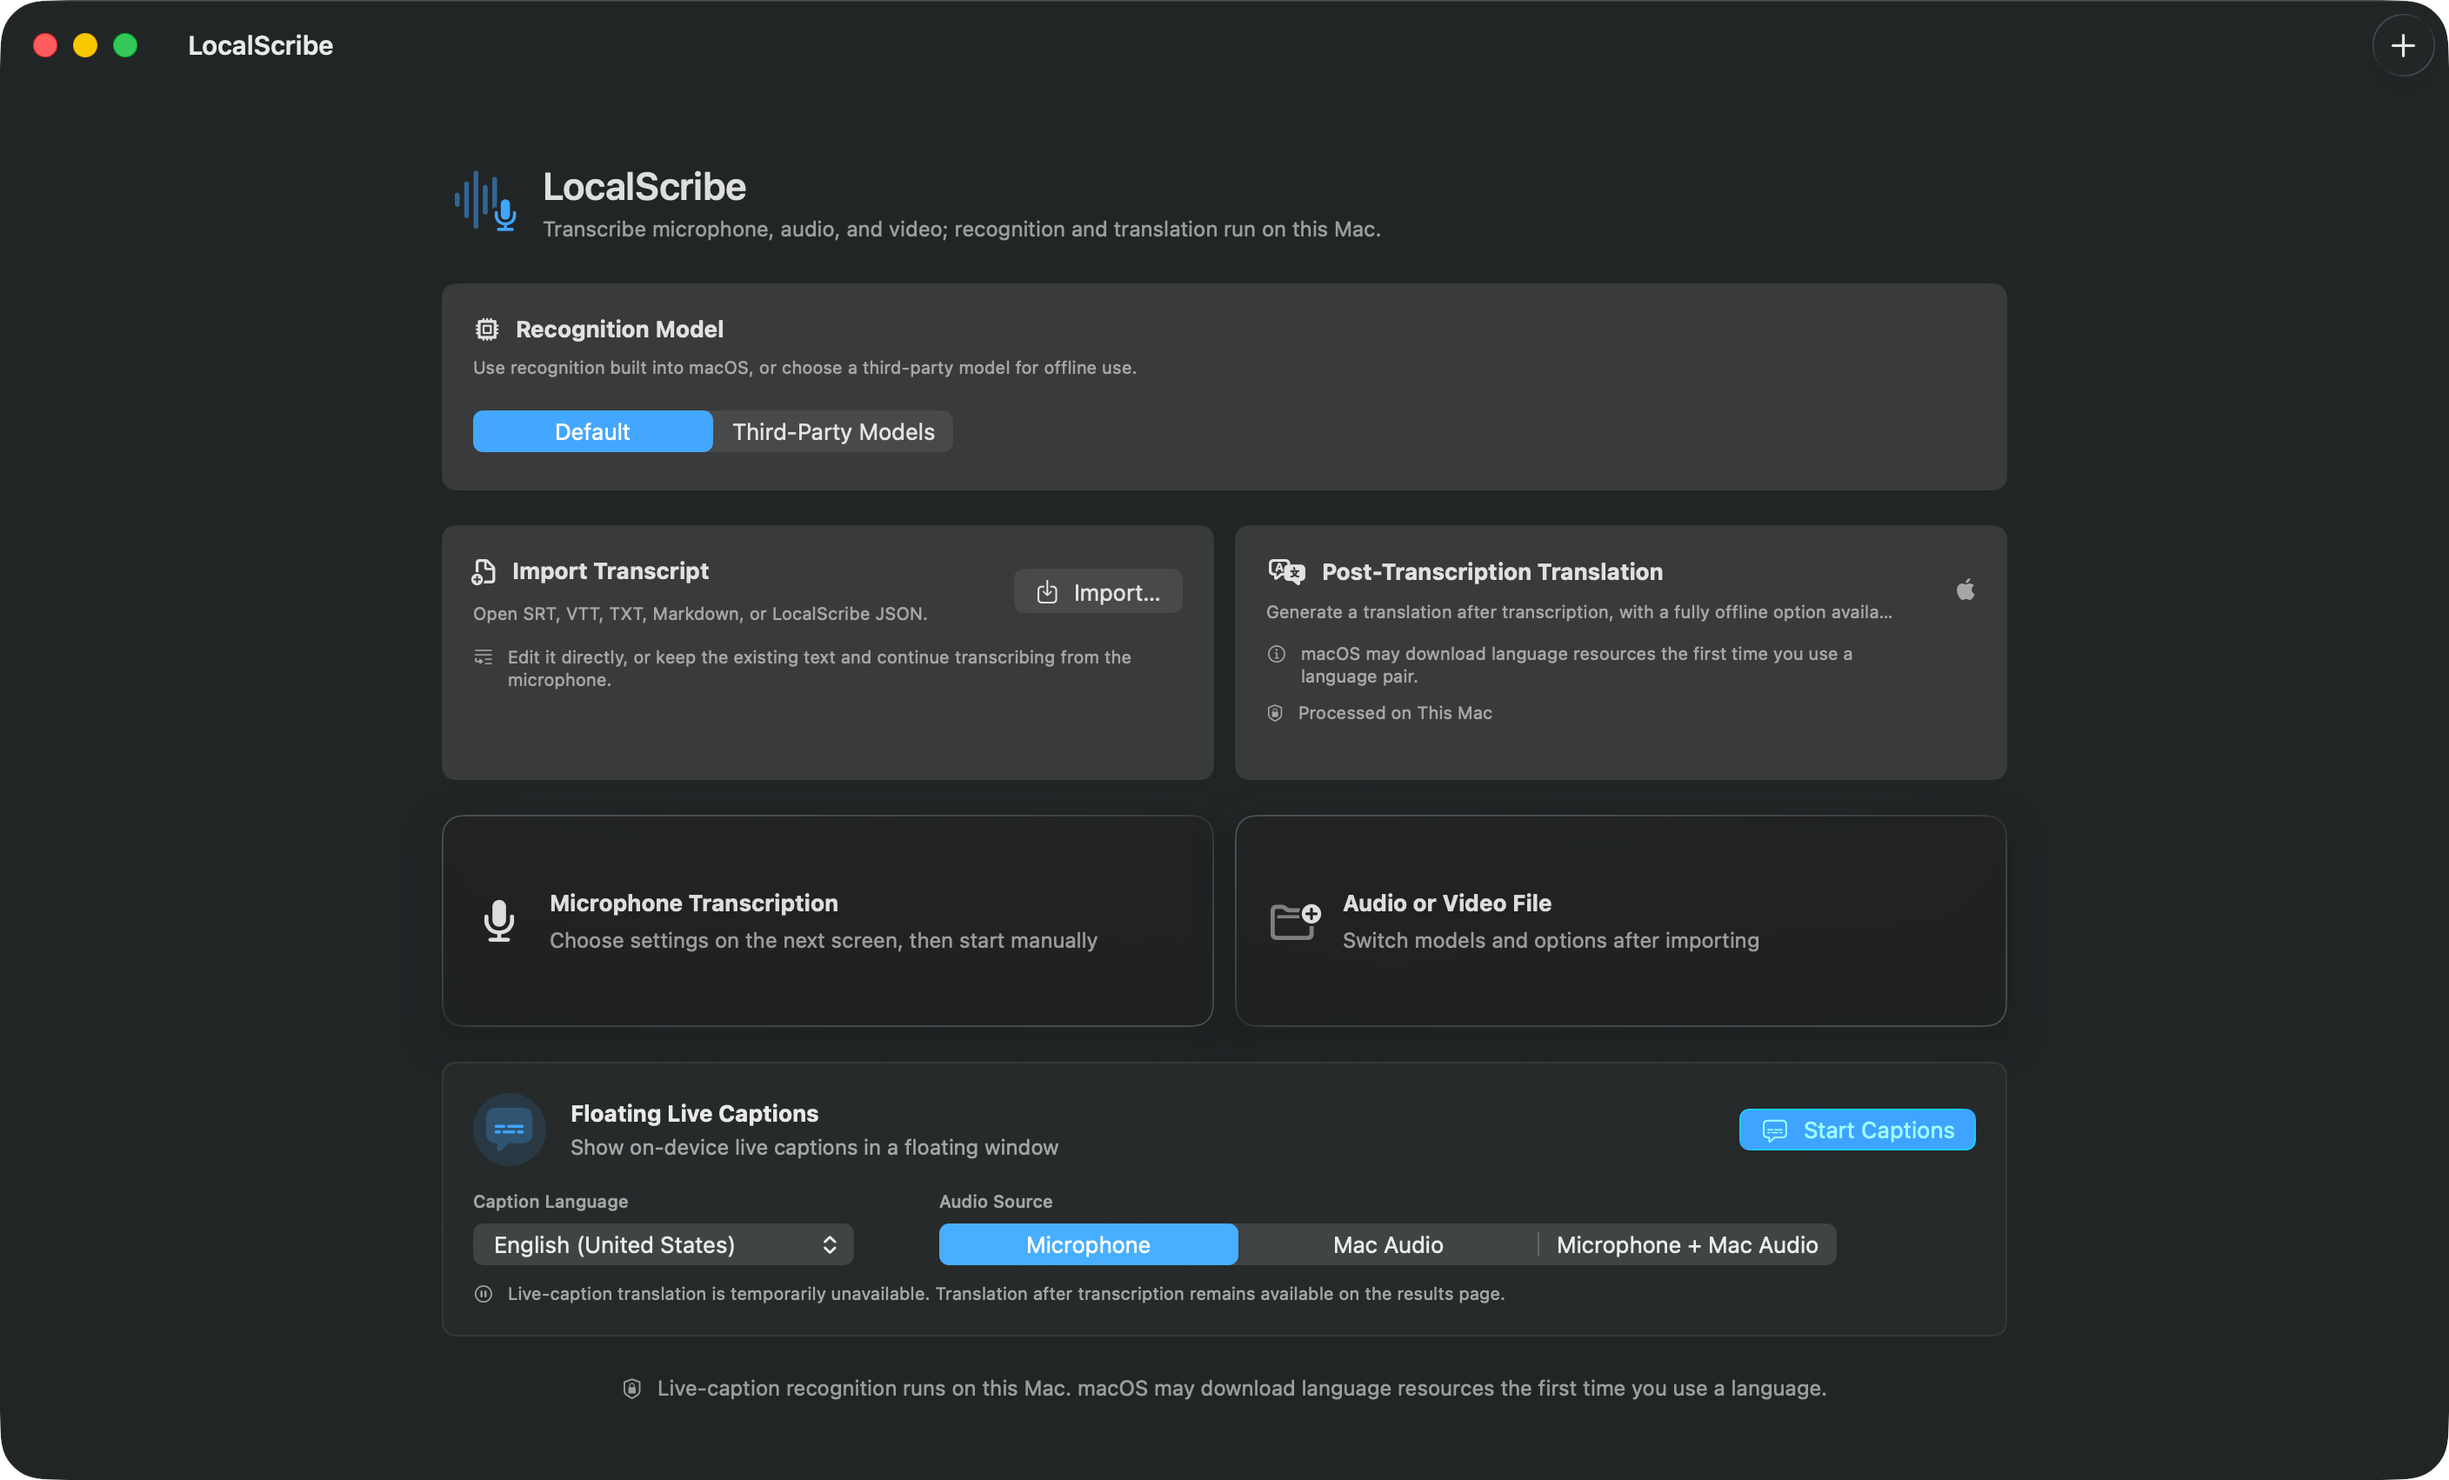
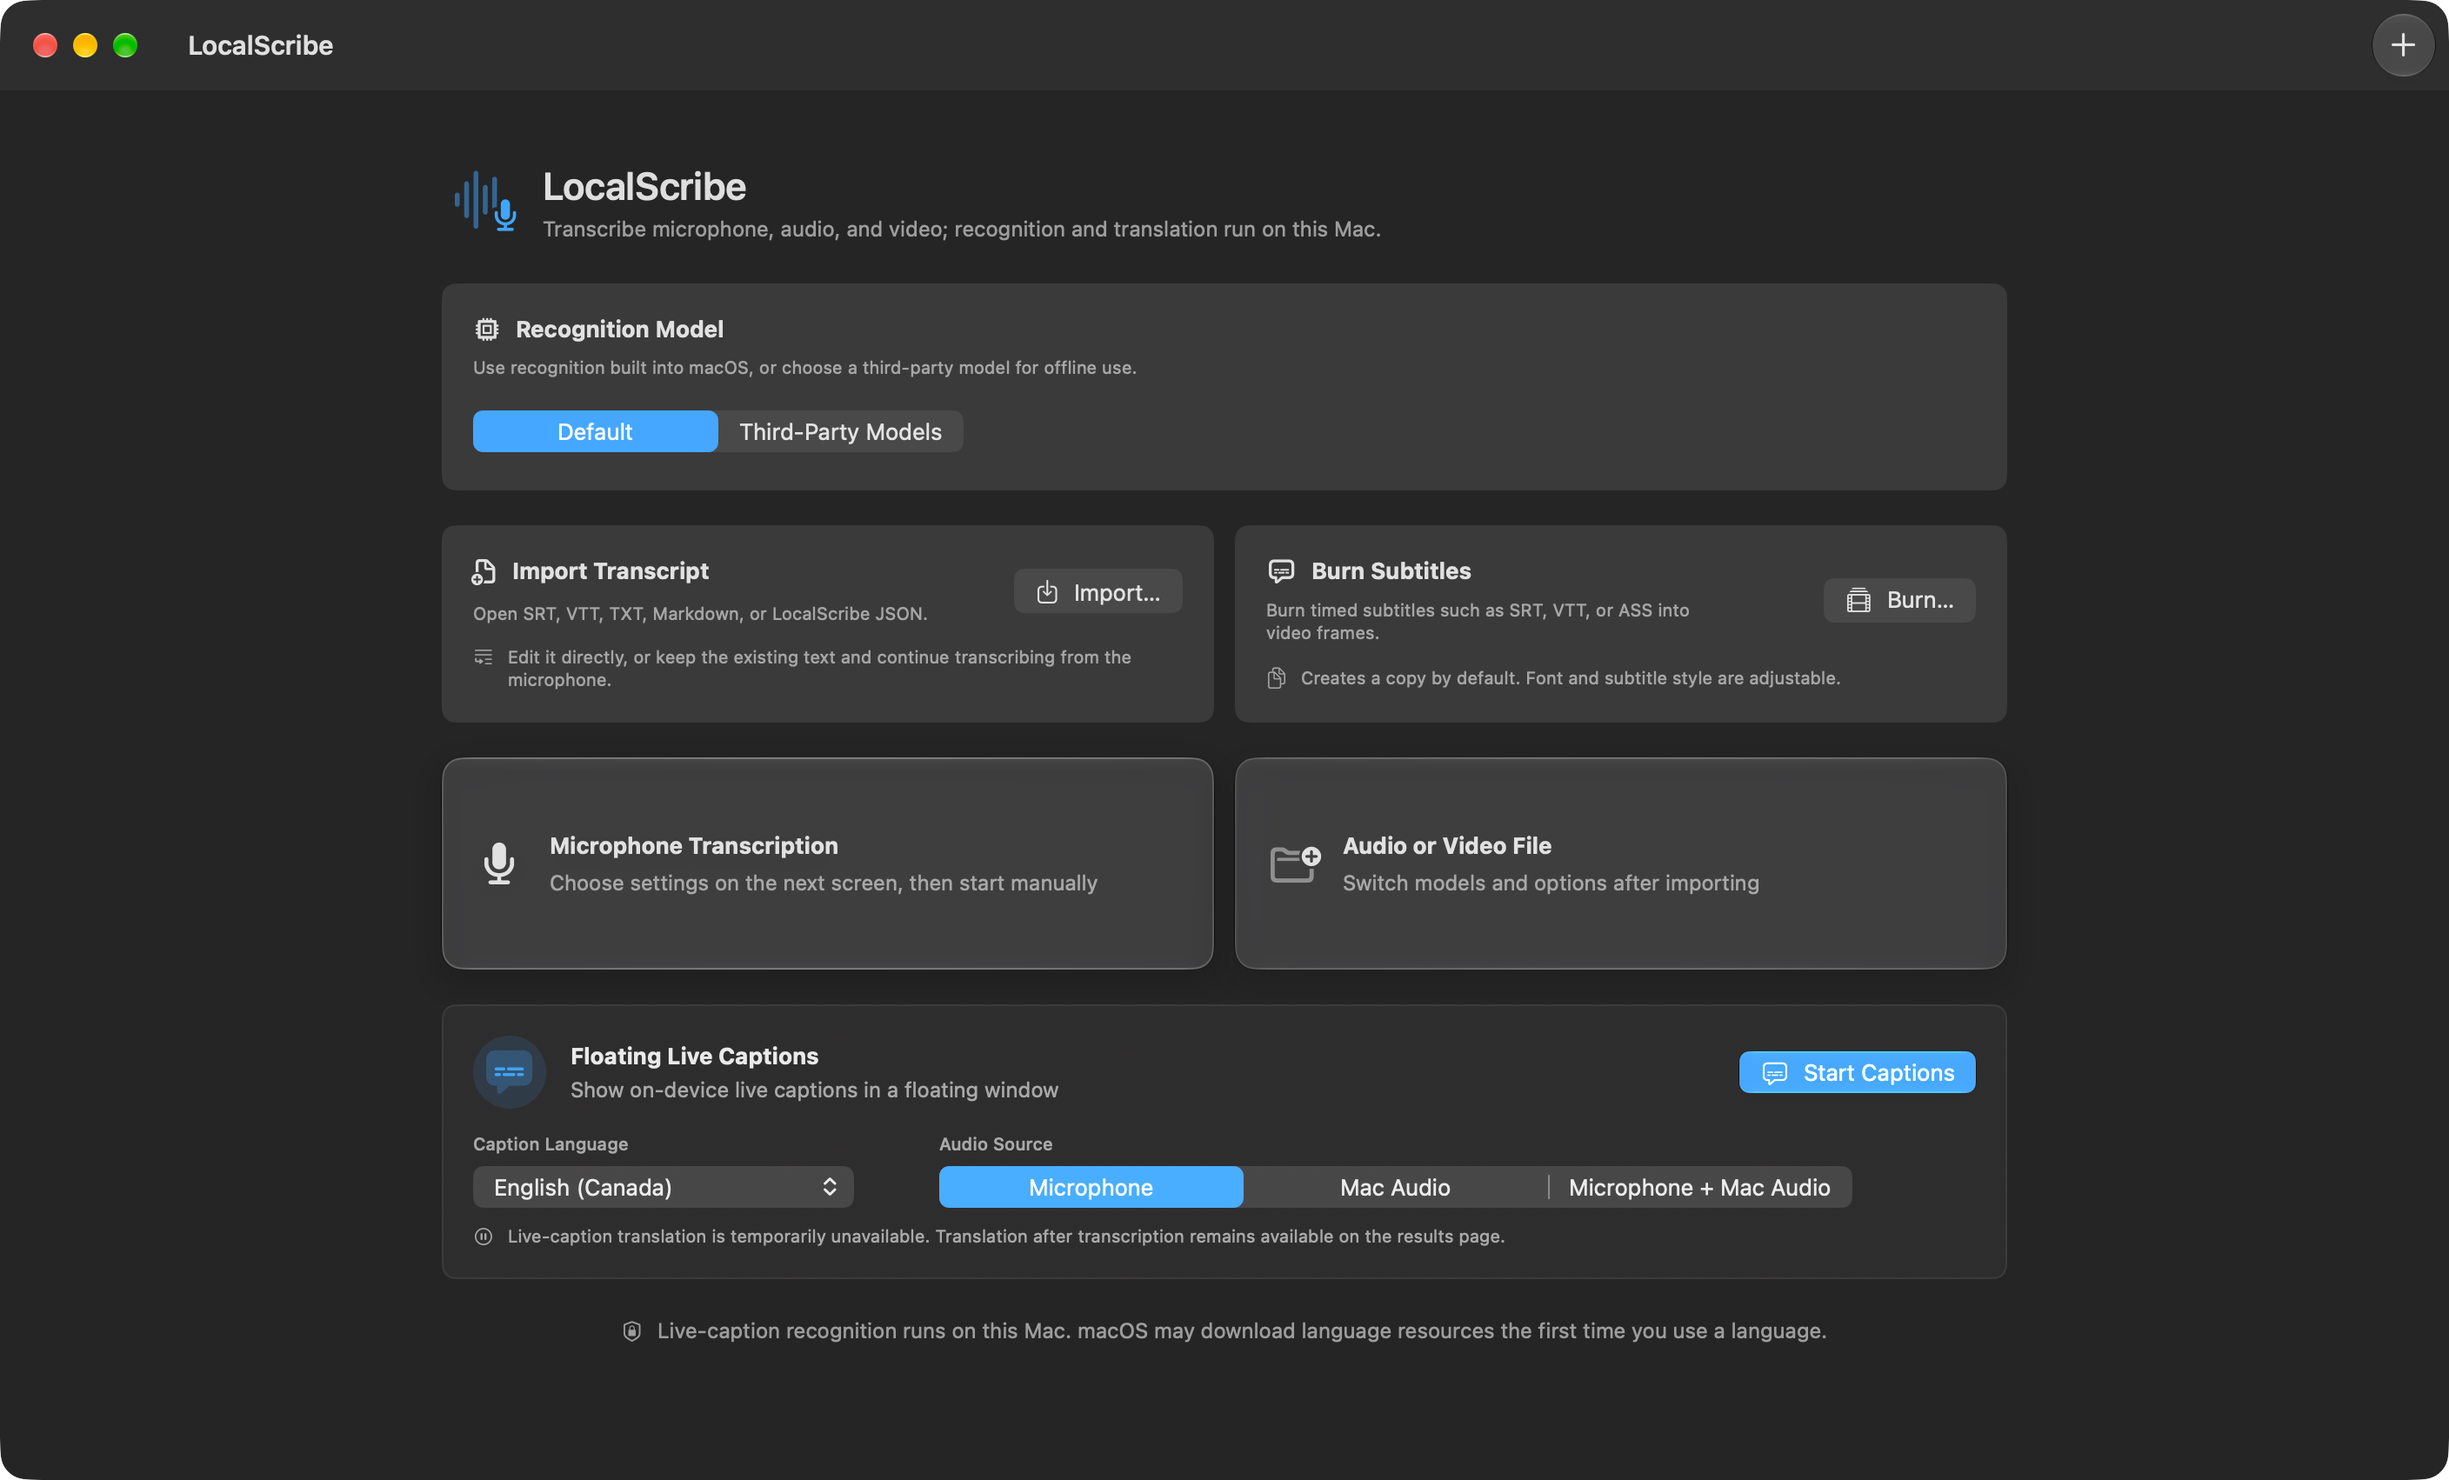
Sync documentation with LocalScribe 1.8.0
- Add a subtitle burning section to the Japanese README and a feature
  entry to the Chinese README.
- Record 1.8.0 subtitle burning acceptance in English and Chinese.
- Retake the light and dark home screenshots in all three languages to
  show the Burn Subtitles card, and update their alt text.
- Remove the outdated version from the installation guide titles.

diff --git a/ACCEPTANCE.md b/ACCEPTANCE.md
@@ -2,6 +2,14 @@
 
 This document summarizes the public acceptance and regression history in English. The complete earlier record is preserved in [Chinese (Simplified)](ACCEPTANCE.zh-CN.md).
 
+## 1.8.0 (43): subtitle burning
+
+- The home screen's Burn Subtitles card, File → Burn Subtitles… (⇧⌘B), and the result page's Burn into Video button open the same burn page; the result-page entry locks the source video and the currently shown original or translation, and Back to Preview returns to the result.
+- SRT, WebVTT, LocalScribe JSON, ASS/SSA, SBV, and TTML/DFXP are detected from file contents. Files without timestamps, with malformed or reversed timestamps, or in other formats are rejected with a line number where possible; cues beyond the video or overlapping cues produce warnings.
+- Create Copy is the default. Burn into Original requires confirmation and replaces the source only after the rendered file is verified. Font, size, position, margin, background, and shadow (on/off, color, width) are remembered and can be reset.
+- The `burn` CLI command supports the same output modes and per-run style overrides, including `--shadow on|off`.
+- Automated coverage includes parsing 20,000 cues in each of four formats, active-cue lookup across three hours at 30 fps, a bounded rendering cache, and a 240-second video with more than 1,200 cues. A 30-minute 1080p30 render with 12,001 cues completed with correct frames and timing and a peak memory of about 167 MB.
+
 ## 1.6.0 (23): adaptive interface, accessibility, and app settings
 
 - Primary actions use native Liquid Glass on macOS 26 with a system-material fallback on macOS 15.5–25; secondary controls no longer receive a custom blue hover treatment.

diff --git a/ACCEPTANCE.zh-CN.md b/ACCEPTANCE.zh-CN.md
@@ -1,5 +1,13 @@
 # 声迹验收记录
 
+## 1.8.0（43）字幕烧录
+
+- 首页“烧录字幕”卡片、“文件 → 烧录字幕…”（⇧⌘B）和结果页“烧录到视频”按钮打开同一个烧录页；从结果页进入时锁定源视频和当前显示的原文或译文，“回退到预览页面”可返回结果页。
+- 按文件内容识别 SRT、WebVTT、声迹 JSON、ASS/SSA、SBV、TTML/DFXP。没有时间戳、时间戳格式错误或前后颠倒、以及其他格式的文件会被拒绝，并尽量给出行号；超出视频时长或相互重叠的字幕只给出警告。
+- 默认创建副本；直接烧录到原视频需要二次确认，且新文件渲染并校验成功后才替换原文件。字体、字号、位置、边距、背景和阴影（开关、颜色、宽度）会被记住，并可恢复默认。
+- 命令行 `burn` 支持相同的输出方式和单次样式覆盖，包括 `--shadow on|off`。
+- 自动化测试覆盖四种格式各 2 万条字幕的解析、30 fps 下 3 小时内的当前字幕查找、有上限的渲染缓存，以及 240 秒、1200 多条字幕的视频。30 分钟 1080p30、12001 条字幕的渲染画面与时间轴正确，峰值内存约 167 MB。
+
 ## 1.6.0（23）自适应界面、无障碍与应用设置
 
 - macOS 26 的主要操作使用原生液态玻璃，macOS 15.5–25 使用系统材质回退；次要控件不再统一显示自定义淡蓝色悬停效果。

diff --git a/README.md b/README.md
@@ -50,7 +50,7 @@ For illustrated steps, troubleshooting, and SHA-256 verification, see the [Downl
 
 <picture>
   <source media="(prefers-color-scheme: dark)" srcset="Documentation/Screenshots/home-en-dark.png">
-  <img alt="LocalScribe home screen in English with model selection, import, translation and live-caption controls" src="Documentation/Screenshots/home-en.png">
+  <img alt="LocalScribe home screen in English with model selection, transcript import, subtitle burning and live-caption controls" src="Documentation/Screenshots/home-en.png">
 </picture>
 
 ## On-device Gemma 4 transcript enhancement (new in 1.6.4)

diff --git a/INSTALL.md b/INSTALL.md
@@ -1,4 +1,4 @@
-# Install ShengJi 1.6.7 on your Mac
+# Install LocalScribe on your Mac
 
 **English** | [Chinese (Simplified)](INSTALL.zh-CN.md) · [Project overview](README.md)
 

diff --git a/INSTALL.zh-CN.md b/INSTALL.zh-CN.md
@@ -1,4 +1,4 @@
-# 在 Mac 上安装声迹 1.6.7
+# 在 Mac 上安装声迹
 
 [English](INSTALL.md) | **简体中文** · [项目简介](README.zh-CN.md)
 
